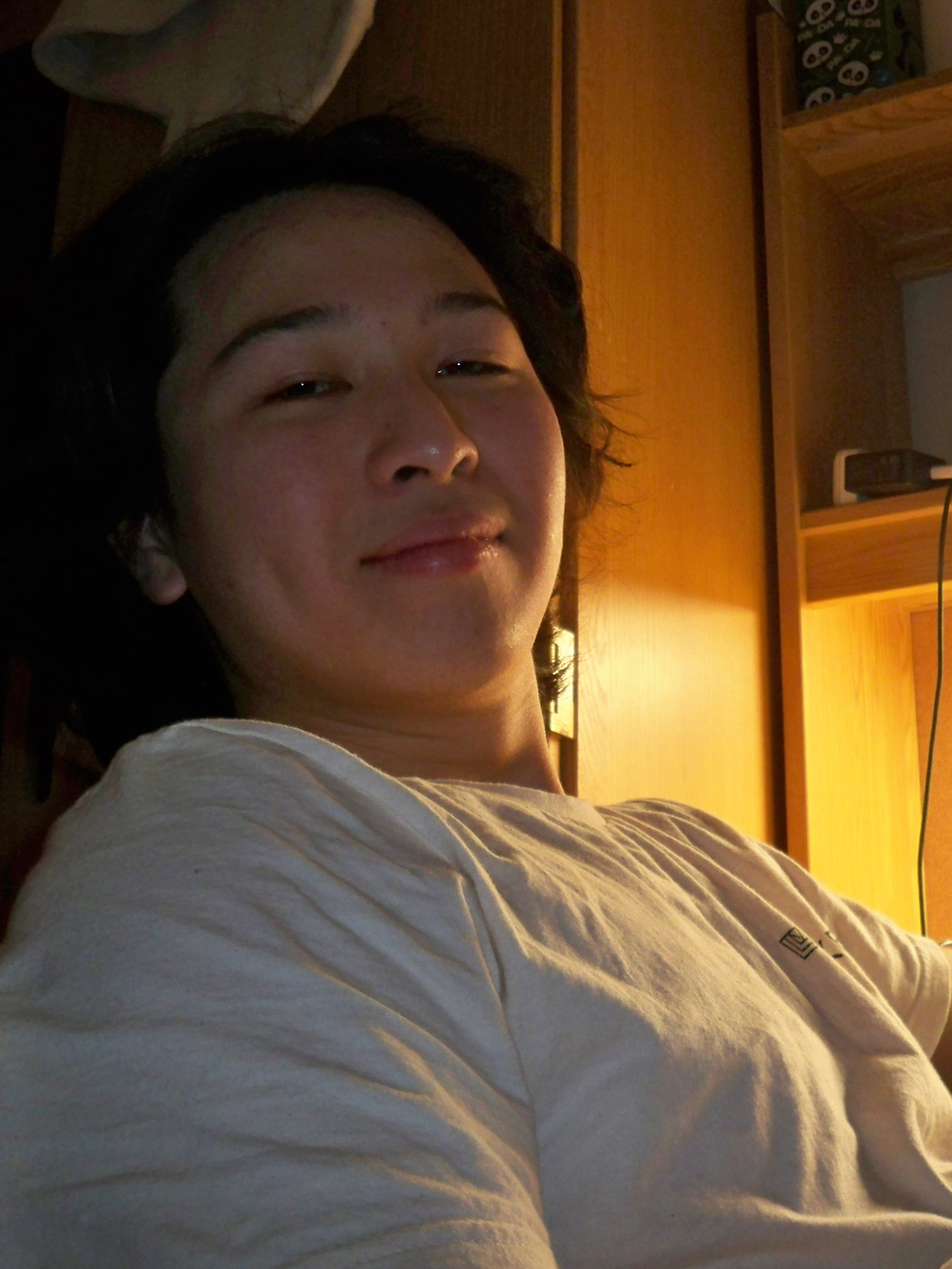
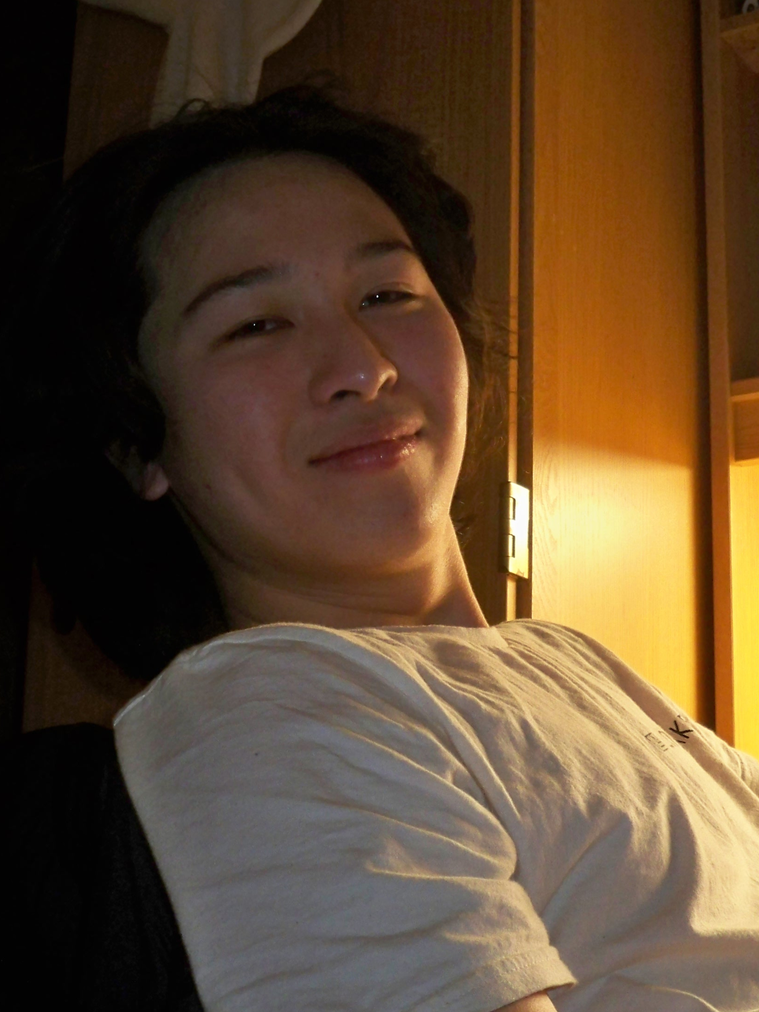
fixes

diff --git a/index.html b/index.html
@@ -88,7 +88,7 @@
       </div>
       <div class="row section-item">
         <div class="col col-wrapper">
-          Harrison Zhang (张鸿宇) works on GPU kernels at <a href="https://www.nvidia.com/">NVIDIA</a> <a href="https://github.com/NVIDIA/TensorRT-LLM">TensorRT-LLM</a>. 
+          Harrison Zhang (张鸿宇) works on GPU kernels and optimizations at <a href="https://www.nvidia.com/">NVIDIA</a> <a href="https://github.com/NVIDIA/TensorRT-LLM">TensorRT-LLM</a>. 
           Previously at <a href="https://meta.com">Meta</a>, he contributed to Prometheus 1GW 
           <a href="https://engineering.fb.com/2025/10/13/data-infrastructure/ocp-summit-2025-the-open-future-of-networking-hardware-for-ai/">distributed training fabric</a> bring-up,
           and 2:4 sparse LLaMA-3.x pre-training with <a href="https://en.wikipedia.org/wiki/Meta_Superintelligence_Labs">MSL Infra (PyTorch)</a>. 
@@ -470,7 +470,7 @@
           </div>
           <div class="row align-items-center">
             <div class="col-md-9 col-wrapper info">
-              Software Engineer | Meta Superintelligence Labs Infra (GPU Communications)
+              Software Engineer | Meta Superintelligence Labs (GPU Communications)
             </div>
             <div class="col-md-3 col-wrapper time">
               July 2026 - Aug 2026
@@ -493,7 +493,7 @@
           </div>
           <div class="row align-items-center">
             <div class="col-md-9 col-wrapper info">
-              Software Engineer Intern | FBOSS, Meta Superintelligence Labs Infra (PyTorch)
+              Software Engineer Intern | FBOSS, Meta Superintelligence Labs (PyTorch)
             </div>
             <div class="col-md-3 col-wrapper time">
               May 2025 - Aug 2025
